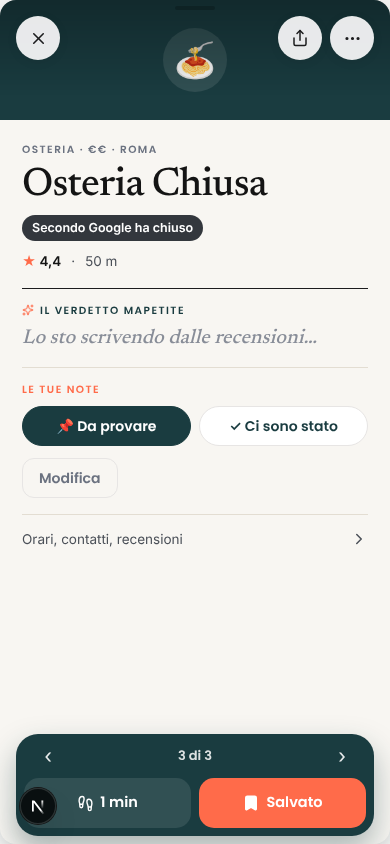
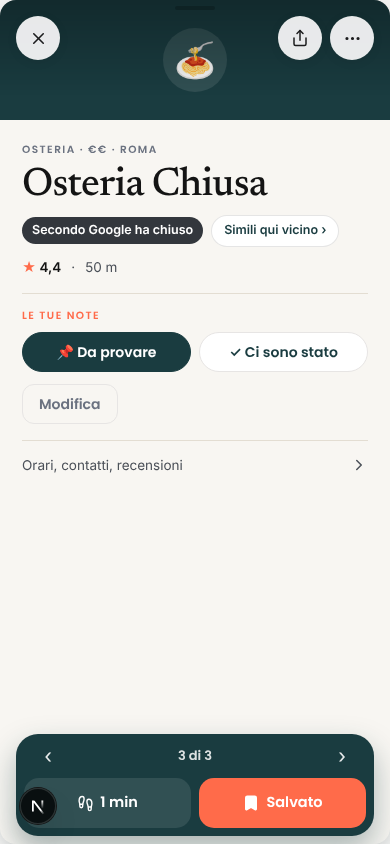
Ha chiuso?: 'Simili qui vicino' nella scheda di un salvato chiuso per sempre
Claude-Session: https://claude.ai/code/session_01WaRiHsNUPn3BVuGRurFA6n

diff --git a/src/components/venue-sheet.tsx b/src/components/venue-sheet.tsx
@@ -108,6 +108,8 @@ type VenueSheetProps = {
   onBookingClosed?: () => void;
   // "Altri come questo" (proposta 27): solo per i salvati con 👍 o "Ci sono stato" (e non 👎).
   onAltriCome?: () => void;
+  // Proposta 45: dalla scheda di un posto che ha chiuso, la stessa ricerca di "Altri come questo".
+  onSimiliChiuso?: () => void;
   // "‹ 2 di 8 ›" tra i risultati (revisore del 2/11, D28: la pillola galleggiava sopra la scheda): sta dentro
   // la barra azioni in basso, la scheda prende tutto lo spazio.
   nav?: { pos: number; total: number } | null;
@@ -158,6 +160,7 @@ export default function VenueSheet({
   autoBook = false,
   onBookingClosed,
   onAltriCome,
+  onSimiliChiuso,
   nav = null,
   onNavPrev,
   onNavNext,
@@ -753,9 +756,16 @@ export default function VenueSheet({
           </h2>
           {shareNote && <p role="status" className="mt-1 text-xs font-sans text-text-muted">{shareNote}</p>}
           {(venue.businessStatus === "CLOSED_PERMANENTLY" || venue.businessStatus === "CLOSED_TEMPORARILY") && (
-            <p data-testid="scheda-chiuso" className="mt-2 inline-flex rounded-pill bg-[#33373d] px-2.5 py-1 text-[12.5px] font-semibold font-sans text-white">
-              {venue.businessStatus === "CLOSED_PERMANENTLY" ? "Secondo Google ha chiuso" : "Secondo Google è chiuso per ora"}
-            </p>
+            <div className="mt-2 flex flex-wrap items-center gap-2">
+              <p data-testid="scheda-chiuso" className="inline-flex rounded-pill bg-[#33373d] px-2.5 py-1 text-[12.5px] font-semibold font-sans text-white">
+                {venue.businessStatus === "CLOSED_PERMANENTLY" ? "Secondo Google ha chiuso" : "Secondo Google è chiuso per ora"}
+              </p>
+              {venue.businessStatus === "CLOSED_PERMANENTLY" && onSimiliChiuso && (
+                <button type="button" data-testid="scheda-simili-chiuso" onClick={onSimiliChiuso} className="min-h-[32px] rounded-pill border border-black/10 bg-white px-3 text-[12.5px] font-semibold font-sans text-brand active:bg-black/[0.04]">
+                  Simili qui vicino ›
+                </button>
+              )}
+            </div>
           )}
           {/* UNA riga: "● Aperto ora · 650 m · fino alle 01:00" (orari Google se ci sono, mai inventati). */}
           {(aperto != null || distance || rating != null) && (

diff --git a/src/app/mappa/map-view.tsx b/src/app/mappa/map-view.tsx
@@ -3916,6 +3916,7 @@ export default function MapView({
               onBookAlternative={(id, details) => { setPendingBooking({ placeId: id, details }); dispatch({ type: "OPEN_VENUE", placeId: id }); }}
               // Il foglio aperto da "Prenota lì" si apre una volta sola: tornando sul locale non si riapre.
               onBookingClosed={() => setPendingBooking(null)}
+              onSimiliChiuso={selected.businessStatus === "CLOSED_PERMANENTLY" ? () => altriCome(selected) : undefined}
               onAltriCome={piaciuto(savedPlaces.find((sp) => sp.id === resolveUuid(selected.id))?.tags) ? () => altriCome(selected) : undefined}
               // "‹ 2 di 8 ›": si passa al risultato vicino senza tornare alla lista (stesso ordine del carosello).
               // Sta nella barra azioni della scheda (revisore del 2/11, D28), non più sopra la scheda.
